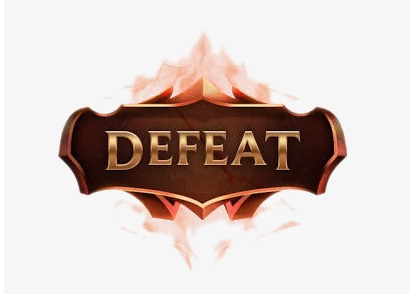
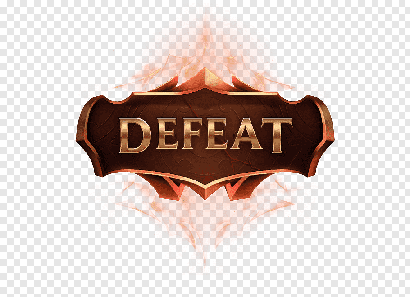
Patching perfect defeat/victory

diff --git a/src/com/generic/UI/GameEndDialog.java b/src/com/generic/UI/GameEndDialog.java
@@ -14,14 +14,15 @@ public class GameEndDialog extends JDialog {
                 ImageIcon victory = new ImageIcon("src/ressources/victoire.png");
                 img = new ImagePanel(victory.getImage());
                 System.out.println(victory.toString());
-            } else {
+            }
+            else{
                 ImageIcon defeat = new ImageIcon("src/ressources/defeat.png");
                 img = new ImagePanel(defeat.getImage());
             }
             img.setBounds(0, 0, 600, 600);
             add(img);
             setLayout(new BorderLayout());
-            setSize(537,523);
+            setSize(410,298);
             setLocationRelativeTo(null);
             setVisible(true);
             setDefaultCloseOperation(DISPOSE_ON_CLOSE);

diff --git a/src/com/generic/gameplay/Game.java b/src/com/generic/gameplay/Game.java
@@ -144,6 +144,7 @@ public class Game {
         Map.deleteMap();
         System.out.println("Score");
         System.out.println("DEFAITE");
+        GameEndDialog GED = new GameEndDialog(w,true,false);
         try {
             sleep(2000);
         }catch(Exception e){e.printStackTrace();}

diff --git a/src/com/generic/gameplay/CONFIG_GAME.java b/src/com/generic/gameplay/CONFIG_GAME.java
@@ -6,7 +6,7 @@ package com.generic.gameplay;
  */
 
 public class CONFIG_GAME {
-    public static int PLAYER_INIT_LIVES = 3;
+    public static int PLAYER_INIT_LIVES = 1;
     public static int AI_INIT_LIVES = 8;
 
     public static int N_PLAYERS = 1;
